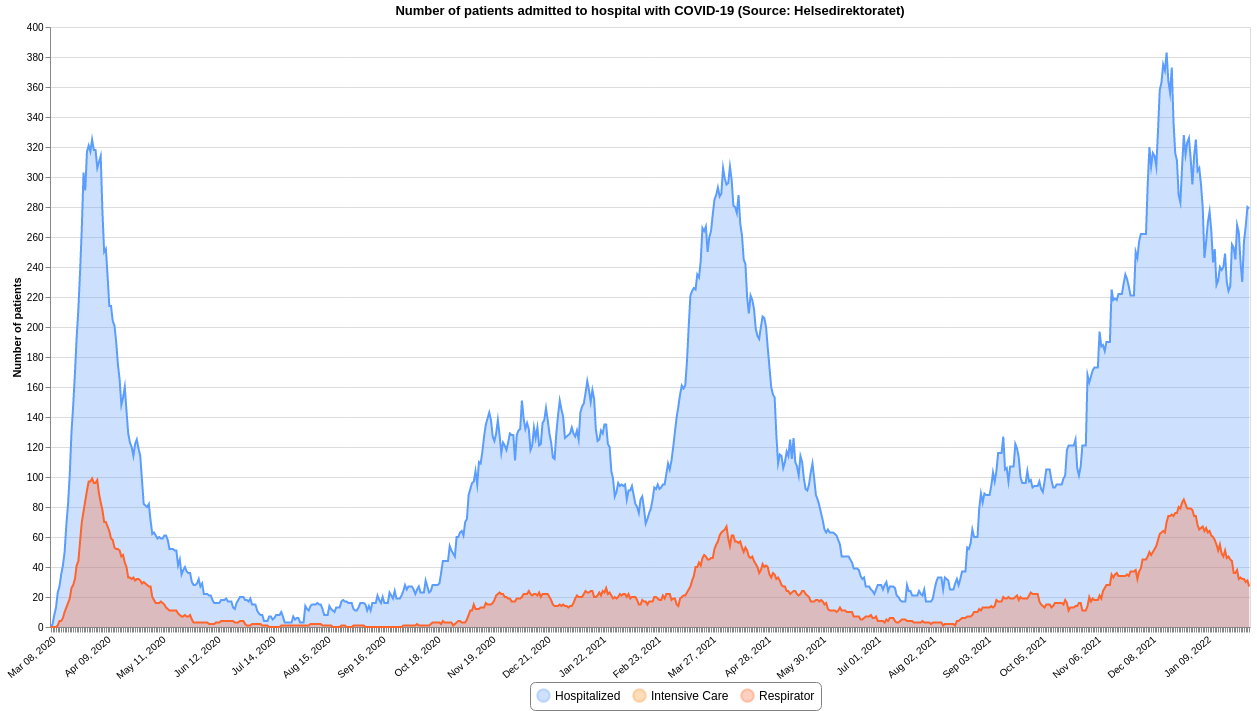
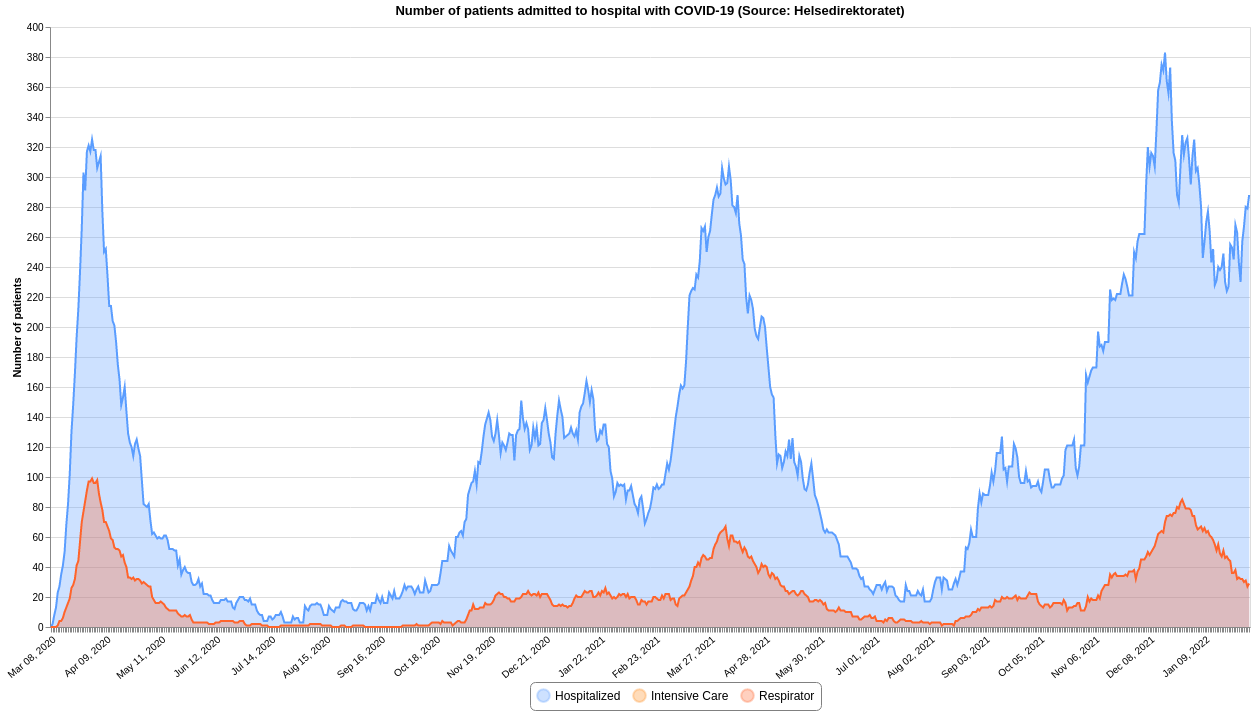
Updated 2022-02-04 13:01

diff --git a/README.md b/README.md
@@ -12,8 +12,8 @@ This repository contains datasets of daily time-series data related to COVID-19 
 | :--- | :--- | :--- | :--- | :--- |
 |[Confirmed](#confirmedcsv)|FHI / MSIS|2022-02-04 00:20:44+01:00|[<center>csv</center>](https://raw.githubusercontent.com/frefrik/covid19norge-data/main/data/confirmed.csv)|[<center>preview</center>](data/confirmed.csv)|
 |[Dead](#deadcsv)|FHI|2022-02-03 13:20:55+01:00|[<center>csv</center>](https://raw.githubusercontent.com/frefrik/covid19norge-data/main/data/dead.csv)|[<center>preview</center>](data/dead.csv)|
-|[Hospitalized](#hospitalizedcsv)|Helsedirektoratet|2022-02-03 13:00:46+01:00|[<center>csv</center>](https://raw.githubusercontent.com/frefrik/covid19norge-data/main/data/hospitalized.csv)|[<center>preview</center>](data/hospitalized.csv)|
-|[Tested](#testedcsv)|FHI|2022-02-03 13:00:44+01:00|[<center>csv</center>](https://raw.githubusercontent.com/frefrik/covid19norge-data/main/data/tested.csv)|[<center>preview</center>](data/tested.csv)|
+|[Hospitalized](#hospitalizedcsv)|Helsedirektoratet|2022-02-04 13:00:52+01:00|[<center>csv</center>](https://raw.githubusercontent.com/frefrik/covid19norge-data/main/data/hospitalized.csv)|[<center>preview</center>](data/hospitalized.csv)|
+|[Tested](#testedcsv)|FHI|2022-02-04 13:00:49+01:00|[<center>csv</center>](https://raw.githubusercontent.com/frefrik/covid19norge-data/main/data/tested.csv)|[<center>preview</center>](data/tested.csv)|
 |[Tested Lab](#tested_labcsv)|FHI|2022-02-03 13:20:50+01:00|[<center>csv</center>](https://raw.githubusercontent.com/frefrik/covid19norge-data/main/data/tested_lab.csv)|[<center>preview</center>](data/tested_lab.csv)|
 |[Transport](#transportcsv)|FHI|2021-09-24 23:10:46+02:00|[<center>csv</center>](https://raw.githubusercontent.com/frefrik/covid19norge-data/main/data/transport.csv)|[<center>preview</center>](data/transport.csv)|
 |[Vaccine Doses](#vaccine_dosescsv)|FHI|2022-02-03 13:20:56+01:00|[<center>csv</center>](https://raw.githubusercontent.com/frefrik/covid19norge-data/main/data/vaccine_doses.csv)|[<center>preview</center>](data/vaccine_doses.csv)|
